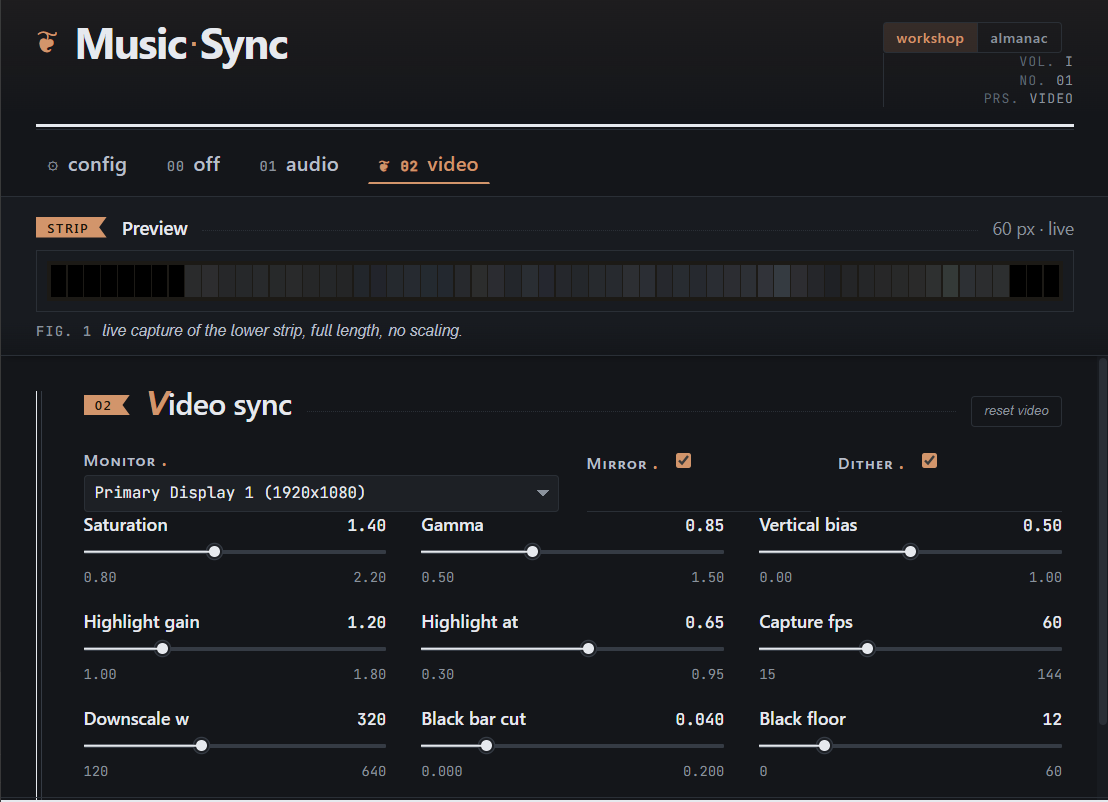
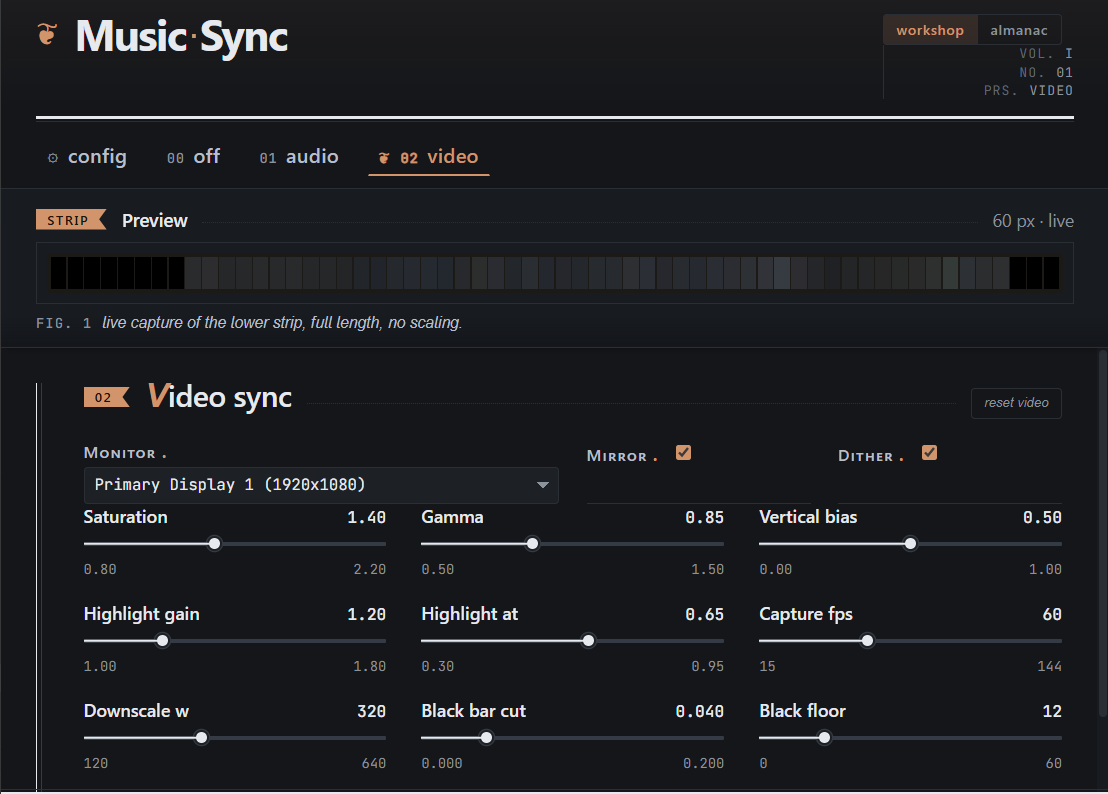
update readme

diff --git a/README.md b/README.md
@@ -17,12 +17,7 @@ over **DRGB UDP**. The built-in WLED effects are bypassed entirely — what
 you see on the strip is whatever the app rendered locally that millisecond,
 driven by either your speakers or your screen.
 
-Two implementations, same protocol, same WLED on the other end.
-
-| | Stack | What it does |
-|---|---|---|
-| <img src="assets/icon-android.png" width="34" align="left"/> **[`android/`](android/)** | Flutter + Kotlin | Phone control, system-audio + mic-input FFT, 26 hand-written animated presets streamed over UDP |
-| <img src="assets/icon-windows.png" width="34" align="left"/> **[`desktop/`](desktop/)** | Wails (Go + Svelte) | Single-binary Windows app: speaker-loopback audio sync **and** screen-capture display sync (ambilight) |
+Two implementations, same protocol, same WLED on the other end (Android + Windows)
 
 ## Screenshots
 